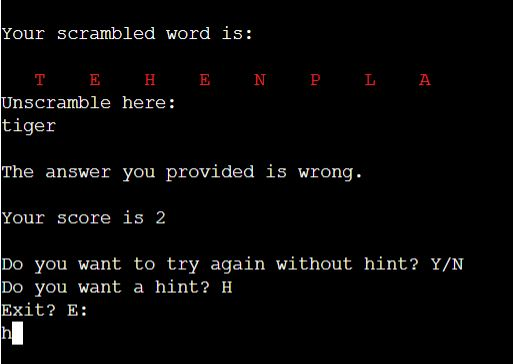
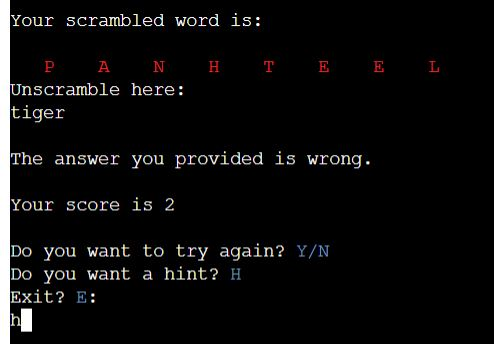
Add images after new colours and new error to testing

diff --git a/TESTING.md b/TESTING.md
@@ -57,7 +57,7 @@ Defensive programming was manually tested with the below user acceptance testing
 | Validation of the player's answer| | | | | |
 | | Feature is expected to check if the player's answer is correct or not and give the points accordingly| Tested the feature by giving the right answer | The feature behaved as expected, and it printed that it is correct gave the player 2 points and moved on to the next word | Test concluded and passed | ![screenshot](documentation/feature006.jpg) ![screenshot](documentation/feature00601.jpg) |
 | | Feature is expected to check if the player's answer is correct or not | Tested the feature by giving the wrong answer | The feature behaved as expected and gave the player the 4 options(retry, skip, hint and exit) | Test concluded and passed | ![screenshot](documentation/feature007.jpg) ![screenshot](documentation/feature00701.jpg) |
-| | Feature is expected to check if the player's answer is correct or not | Tested the feature by giving no answer | The feature behaved as expected and asked the player to provide an answer and then gave him/her the choices | Test concluded and passed | ![screenshot](documentation/feature00701.jpg) ![screenshot]
+| | Feature is expected to check if the player's answer is correct or not | Tested the feature by giving no answer | The feature behaved as expected and asked the player to provide an answer and then gave him/her the choices | Test concluded and passed | ![screenshot](documentation/feature0070101.jpg) |
 | If the player's answer is wrong he gets the 4 options "Y", "N", "H", "E" | | | | | |
 | | If the player types "Y" | Tested the feature by typing "Y" | The feature behaved as expected, and it gave the player another try. | Test concluded and passed | ![screenshot](documentation/feature008.jpg) ![screenshot](documentation/feature00801.jpg)|
 | | If the player types "N" | Tested the feature by typing "N" | The feature behaved as expected, and moved on to the next word. | Test concluded and passed | ![screenshot](documentation/feature009.jpg) ![screenshot](documentation/feature00901.jpg) |
@@ -74,7 +74,7 @@ Defensive programming was manually tested with the below user acceptance testing
 
 ## User Story Testing
 
-| User Story | Screenshot |
+| User Story | 
 | --- | --- |
 | As a new site user, I would like to play, so that I can have fun. | 
 | As a new site user, I would like to check how many points I can get out of 10. | 
@@ -91,7 +91,7 @@ Defensive programming was manually tested with the below user acceptance testing
 -   A bug that I got while developing project is that sometimes the word was shuffled back to the original word. I did not want that to happen so I added the code to reshuffle the word if it was identical to the original word.
 -   Something that I also tried during developing was to add a timer. I tried using threading to run 2 functions simultaneously. That caused many issues and I decided not to use it in the end. 
 -   After putting my project up for review on the #peer code review I got some feedback.
-    One of the comments was that the player's choices when he got the word wrong should be more clear so I made the capital letters blue to stand out more and differentiate them from the scrambled word. I also changed the messages making them shorter and more comprehensible. 
+    One of the comments was that the player's choices, when he got the word wrong, should be more clear so I made the capital letters blue to stand out more and differentiate them from the scrambled word which is in red. I also changed the messages making them shorter and more comprehensible. 
     Another comment was that the blank answer was not handled as an error but it was taken a wrong answer. I fixed that by handling the blank answer as an error.
 
 ## Unfixed Bugs
